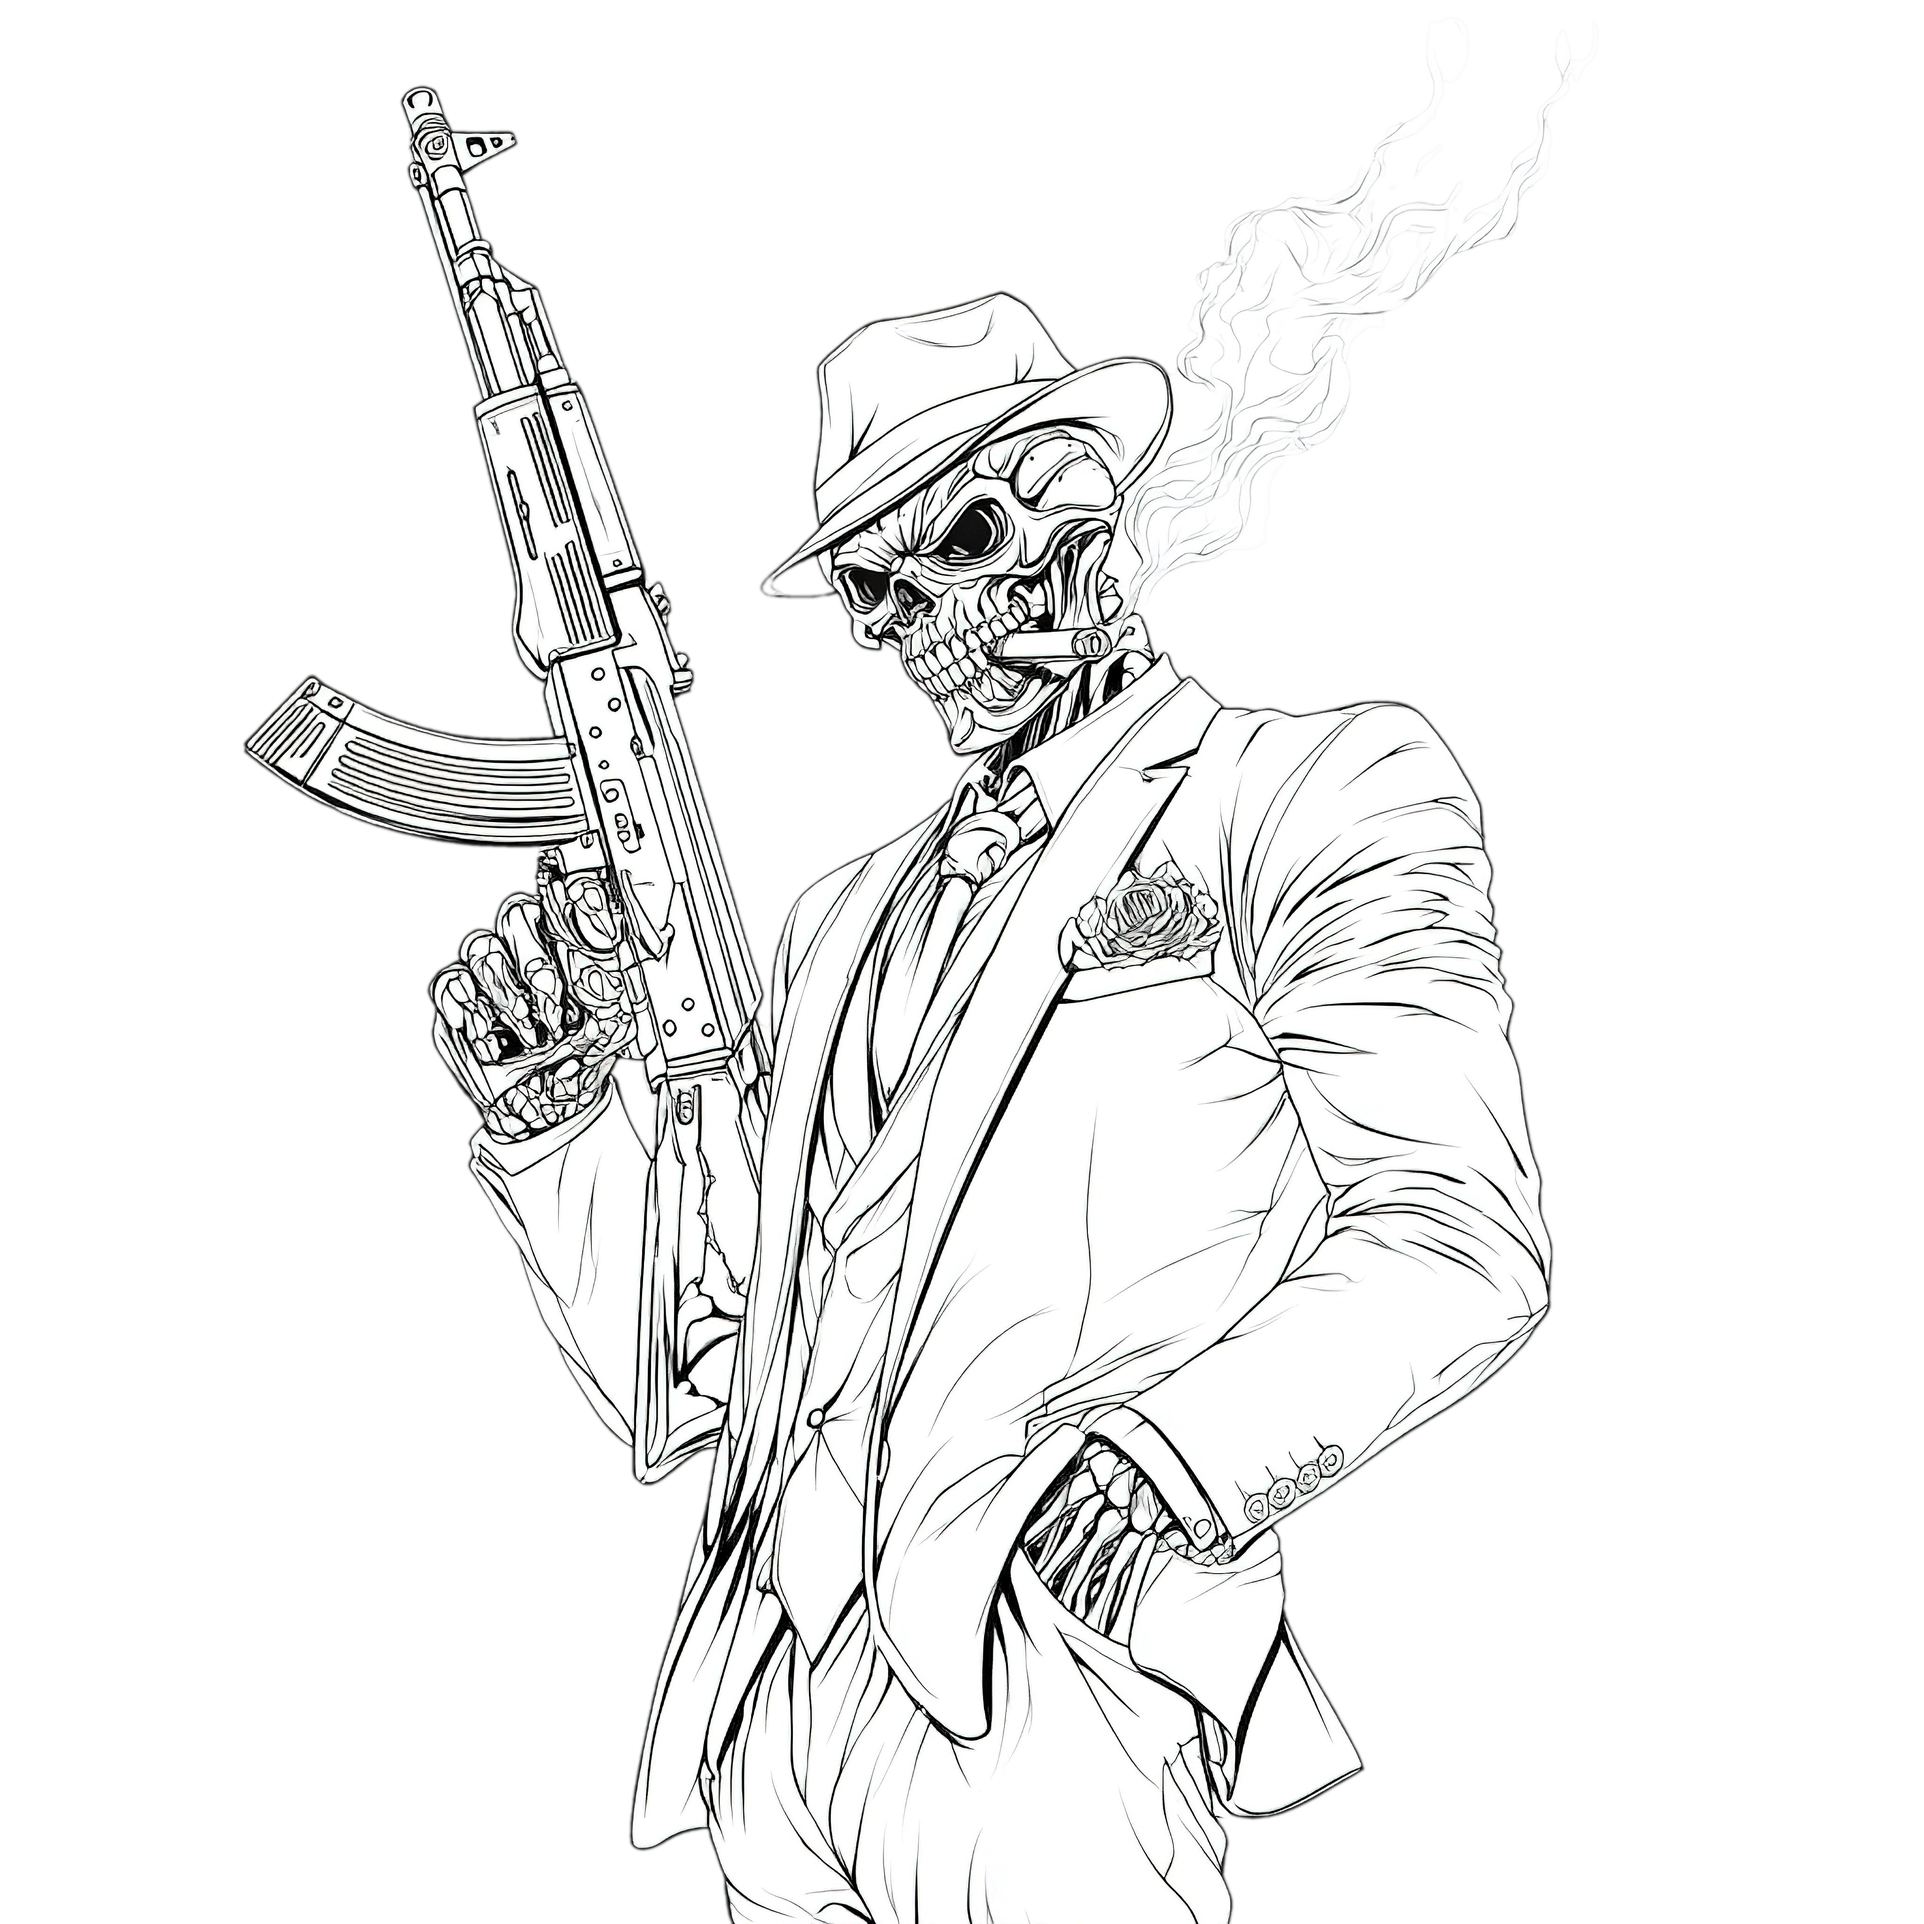
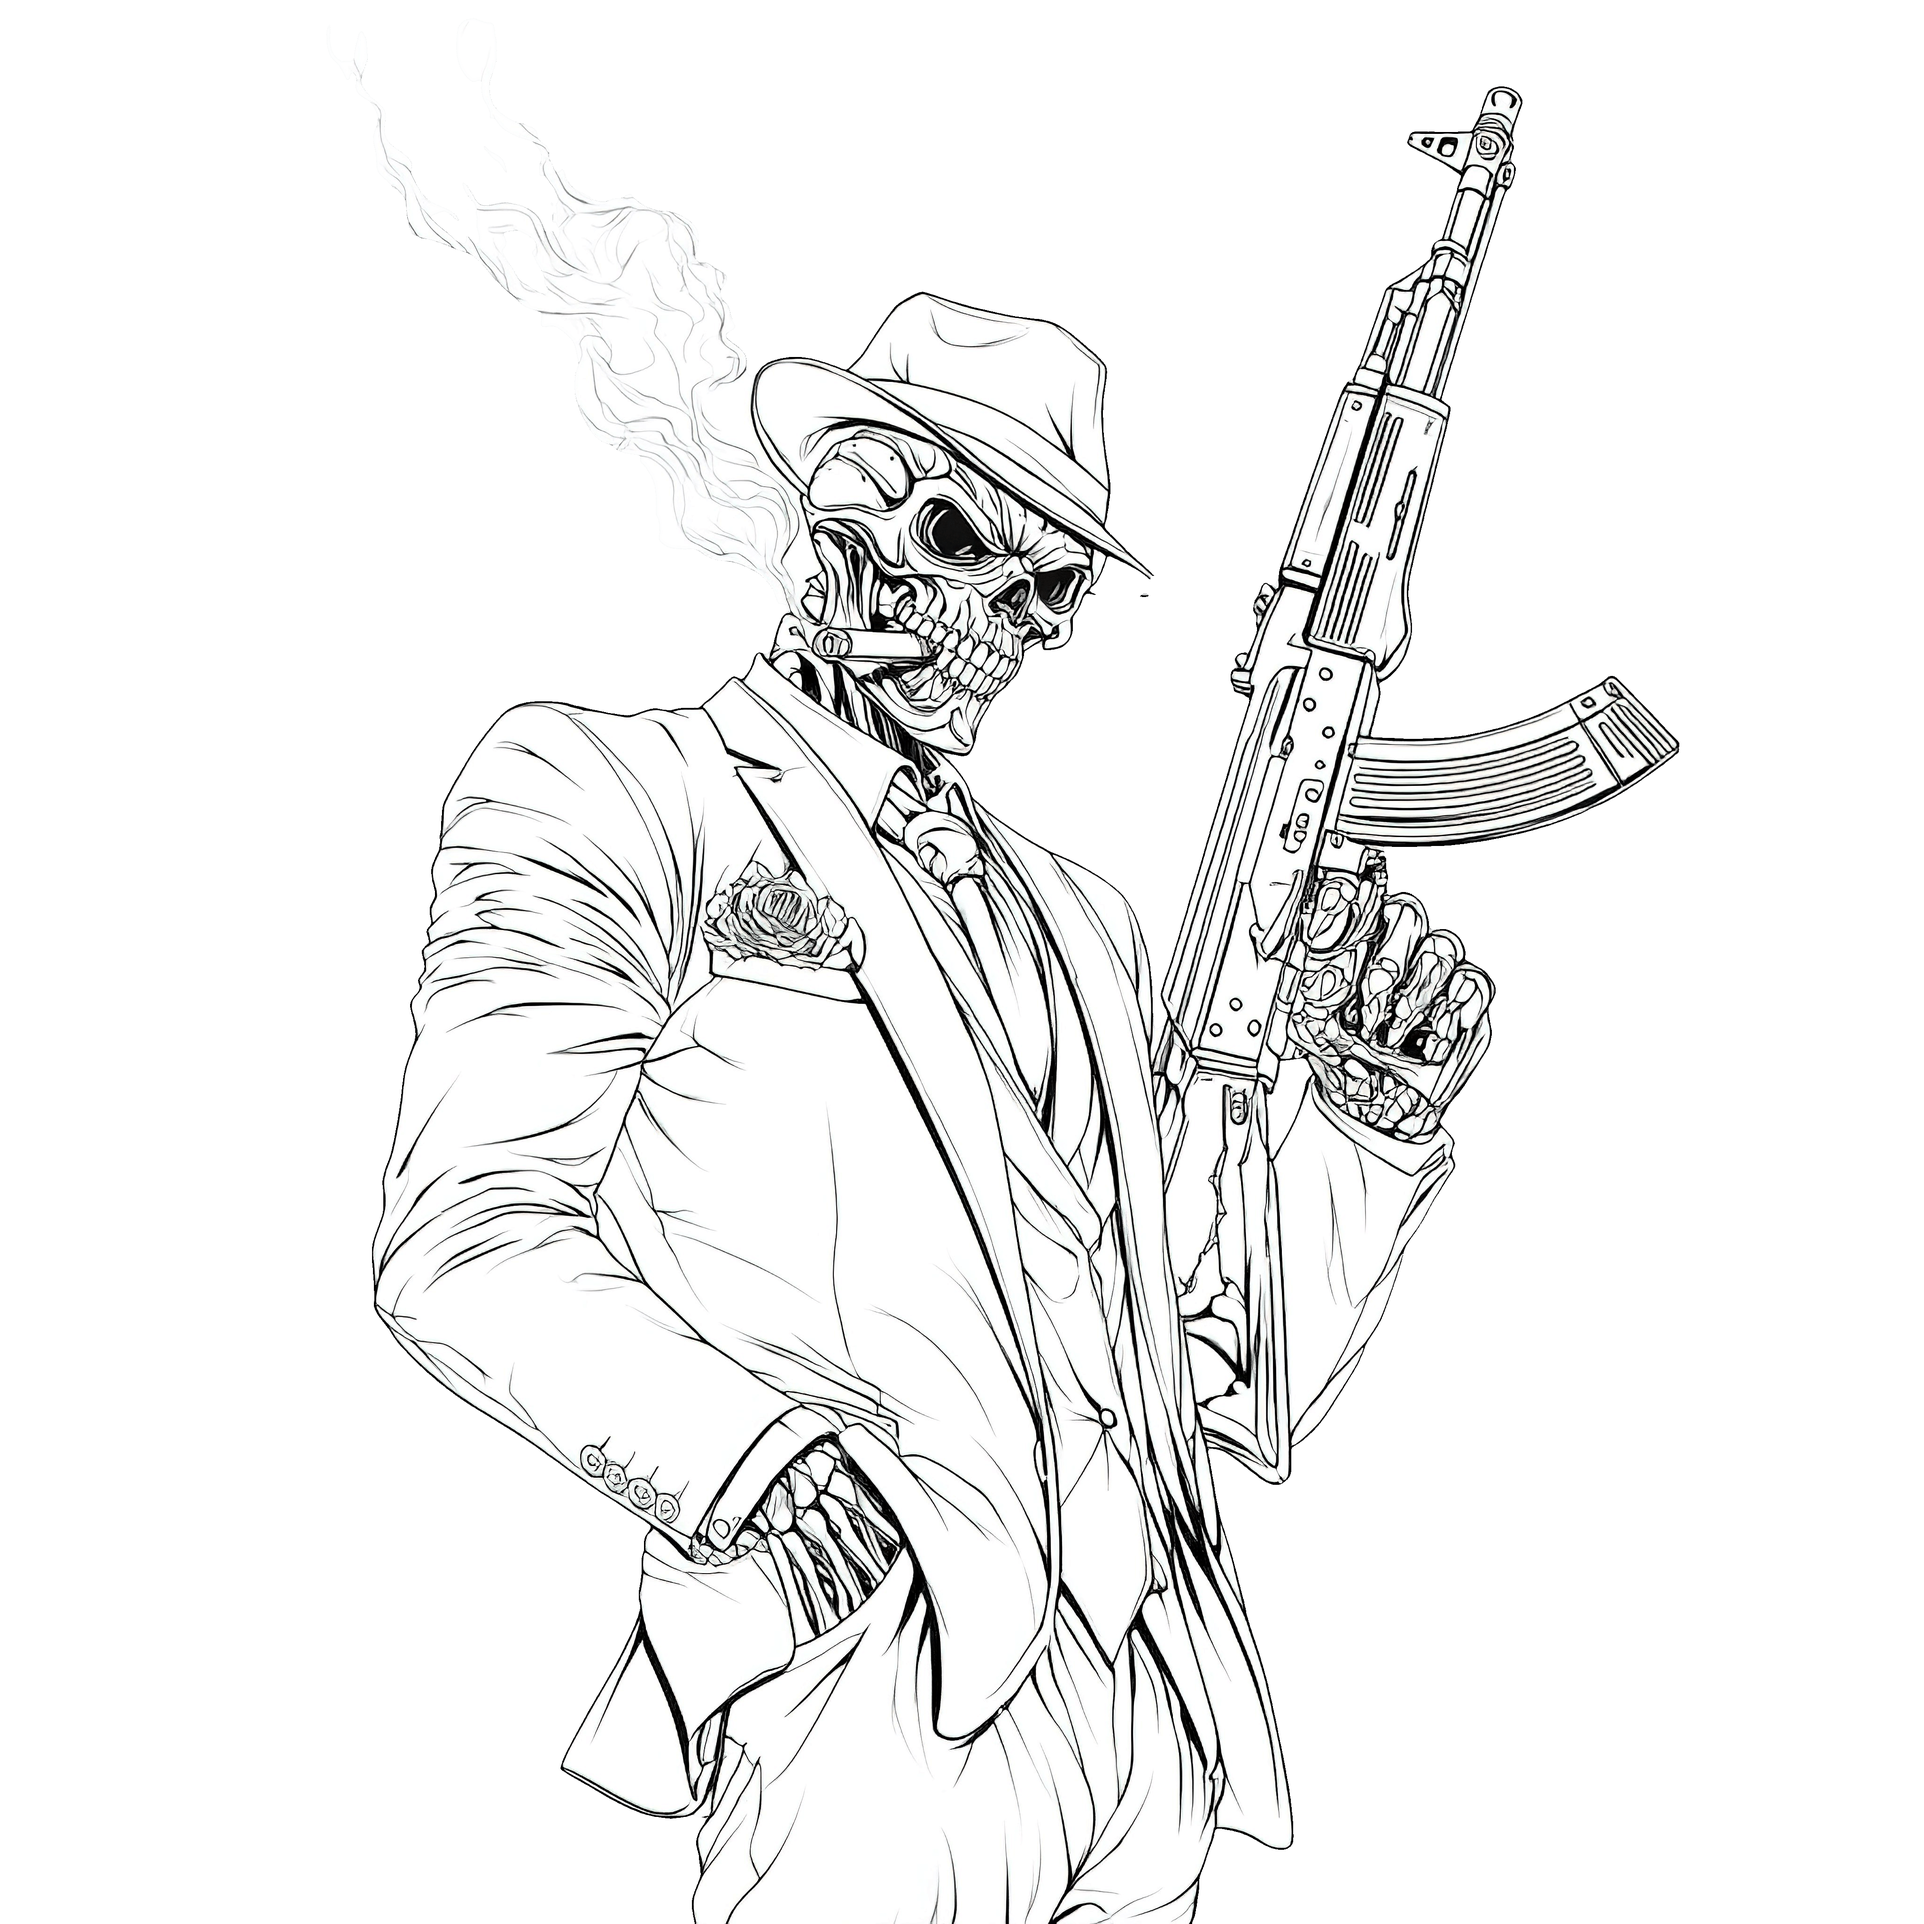
i added the images in the site

diff --git a/mafia/static/main.css b/mafia/static/main.css
@@ -13,7 +13,6 @@
 }
 
 body {
-  background: var(--bg_color);
   min-height: 100vh;
   background-size: cover;
   margin: 0;
@@ -36,6 +35,7 @@ header {
   border-radius: 20px;
   right: 2.5%;
   backdrop-filter: blur(10px);
+  z-index: 100;
 }
 
 header nav {
@@ -100,23 +100,24 @@ header nav .left_part button.signup {
 
 .container {
   width: 100%;
-  height: 90%;
+  height: 100%;
   display: flex;
   align-items: center;
   justify-content: center;
   gap: 5%;
   flex-wrap: wrap;
   align-content: center;
-  position: absolute;
-  bottom: 0;
+
 }
 
 .container .main{
+  background: var(--bg_color);
   width: 100%;
-  height: 900px;
+  height: 1100px;
   display: flex;
   align-items: center;
   justify-content: center;
+  position: relative;
 }
 
 .container .main .text{
@@ -154,4 +155,18 @@ header nav .left_part button.signup {
   color: aliceblue;
   border-radius: 10px;
   box-shadow: 0px 0px 20px var(--btn_go_color);
+}
+
+.img_main1{
+  position: absolute;
+  width: 600px;
+  left: 0;
+  bottom: 0;
+}
+
+.img_main2{
+  position: absolute;
+  width: 600px;
+  right: 0;
+  bottom: 0;
 }

diff --git a/mafia/song/templates/song/index.html b/mafia/song/templates/song/index.html
@@ -22,8 +22,8 @@
             <p>جایی که بازی مافیا به یک بازی جذاب تر تبدیل میشود</p>
             <a href="" class="btn_start_game">شروع بازی</a>
         </div>
-        <img src="" alt="" class="img_main1">
-        <img src="" alt="" class="img_main2">
+        <img src="{% static 'img/—Pngtree—skeleton mafia boss with ak_21804339.png' %}" alt="" class="img_main1">
+        <img src="{% static 'img/Mafia-Gangster-PNG-Download-Image.png' %}" alt="" class="img_main2">
     </div>
 </div>
 <script src="{% static 'js/script.js' %}"></script>
